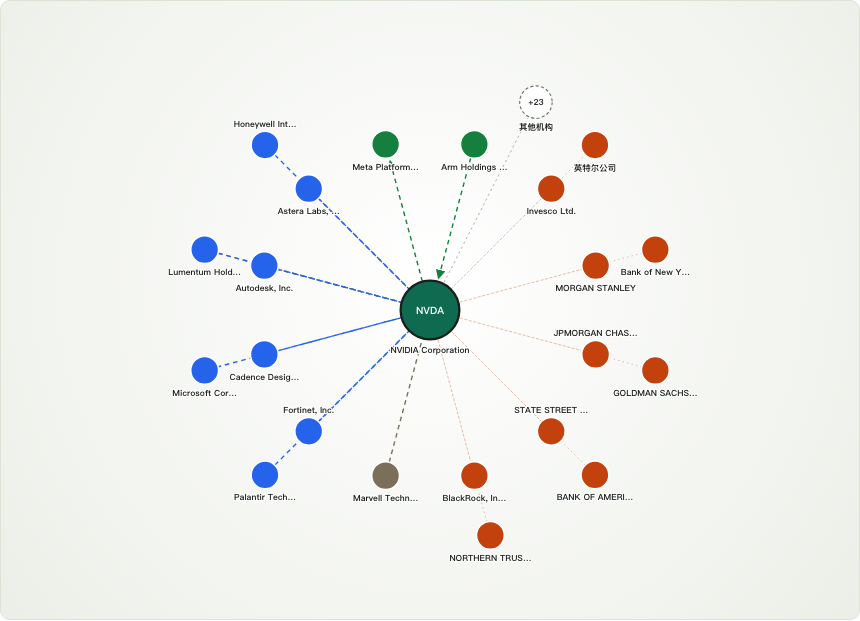
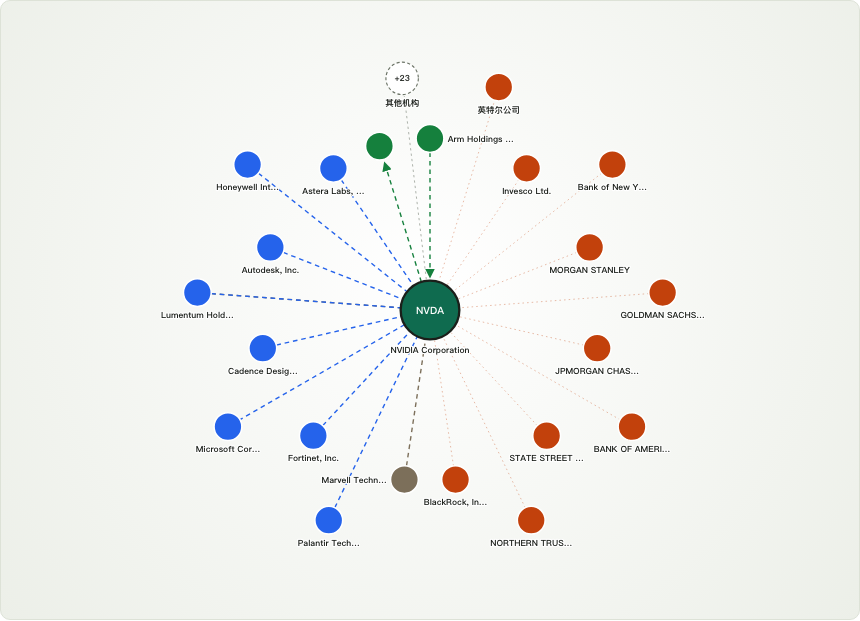
web: stagger inner/outer rings in dense ownership graph
Aligning both rings at the same angles made an outer holder's edge to the
centre run through the inner node on that ray, which read as if the two
companies were connected. Give every node its own angle and interleave the
rings; cluster placement also avoids crossing nodes. Refresh screenshots and
add a no-edge-through-node regression test.

diff --git a/apps/web/src/lib/graph-layout.ts b/apps/web/src/lib/graph-layout.ts
@@ -197,7 +197,6 @@ interface GroupSplit {
   category: RelationCategory;
   inner: DirectCandidate[];
   outer: DirectCandidate[];
-  slots: number;
 }
 
 /**
@@ -223,7 +222,6 @@ function splitGroups(candidates: DirectCandidate[]): GroupSplit[] {
         category,
         inner,
         outer,
-        slots: Math.max(inner.length, outer.length, 1),
       };
     },
   );
@@ -234,18 +232,35 @@ function placeTwoRings(
   positions: Map<string, Position>,
 ): void {
   const groups = splitGroups(candidates);
-  const totalSlots = groups.reduce((sum, group) => sum + group.slots, 0);
+  const totalSlots = groups.reduce(
+    (sum, group) => sum + group.inner.length + group.outer.length,
+    0,
+  );
   let cursor = START_ANGLE;
   for (const group of groups) {
-    const arc = (360 * group.slots) / Math.max(totalSlots, 1);
-    group.inner.forEach((candidate, index) => {
-      const angle = cursor + (arc * (index + 0.5)) / group.inner.length;
-      setPolarPosition(positions, candidate.id, INNER_RADIUS, angle);
-    });
-    group.outer.forEach((candidate, index) => {
-      const angle = cursor + (arc * (index + 0.5)) / group.outer.length;
-      setPolarPosition(positions, candidate.id, OUTER_RADIUS, angle);
-    });
+    const slots = group.inner.length + group.outer.length;
+    const arc = (360 * slots) / Math.max(totalSlots, 1);
+    const step = arc / Math.max(slots, 1);
+    /**
+     * Interleave inner and outer nodes instead of giving both rings the same
+     * angles. Otherwise an outer holder's edge to the centre runs straight
+     * through the inner node at the same angle, which reads as if the two
+     * companies were connected. Each node now gets its own angle; edges to the
+     * outer ring pass between the inner nodes.
+     */
+    let slot = 0;
+    for (let index = 0; index < Math.max(group.inner.length, group.outer.length); index += 1) {
+      const inner = group.inner[index];
+      if (inner) {
+        setPolarPosition(positions, inner.id, INNER_RADIUS, cursor + step * (slot + 0.5));
+        slot += 1;
+      }
+      const outer = group.outer[index];
+      if (outer) {
+        setPolarPosition(positions, outer.id, OUTER_RADIUS, cursor + step * (slot + 0.5));
+        slot += 1;
+      }
+    }
     cursor += arc;
   }
 }
@@ -268,8 +283,8 @@ function placeSingleRing(
 
 /**
  * Place the collapsed cluster near the last named holder without stacking it
- * on top of another node. Falls back to the preferred angle if the ring is
- * unusually crowded.
+ * on top of a node or running its edge through another node. Falls back to the
+ * preferred angle if the ring is unusually crowded.
  */
 function findClusterAngle(
   positions: Map<string, Position>,
@@ -277,19 +292,59 @@ function findClusterAngle(
   radius: number,
 ): number {
   const minDistance = NODE_RADIUS * 2 + CLUSTER_RADIUS + 8;
-  for (const offset of [
-    0, 18, -18, 28, -28, 38, -38, 48, -48, 60, -60, 90, -90, 120, -120, 180,
-  ]) {
+  const offsets = [0];
+  for (let offset = 6; offset <= 180; offset += 6) {
+    offsets.push(offset, -offset);
+  }
+  for (const offset of offsets) {
     const angle = preferredAngle + offset;
     const radians = (angle * Math.PI) / 180;
     const x = CENTER_X + radius * Math.cos(radians);
     const y = CENTER_Y - radius * Math.sin(radians);
-    const clear = [...positions.values()].every(
-      (position) => Math.hypot(position.x - x, position.y - y) >= minDistance,
-    );
+    const clear = [...positions.values()].every((position) => {
+      // Ignore the centre itself: every candidate edge starts there.
+      if (
+        Math.abs(position.x - CENTER_X) < 0.5 &&
+        Math.abs(position.y - CENTER_Y) < 0.5
+      ) {
+        return true;
+      }
+      const endpointGap = Math.hypot(position.x - x, position.y - y);
+      if (endpointGap < minDistance) return false;
+      // Edges to the outer ring must pass between nodes, not through them.
+      return (
+        distanceToSegment(
+          position,
+          { x: CENTER_X, y: CENTER_Y },
+          { x, y },
+        ) >=
+        NODE_RADIUS + 6
+      );
+    });
     if (clear) return angle;
   }
   return preferredAngle;
+}
+
+function distanceToSegment(
+  point: { x: number; y: number },
+  start: { x: number; y: number },
+  end: { x: number; y: number },
+): number {
+  const dx = end.x - start.x;
+  const dy = end.y - start.y;
+  const lengthSquared = dx * dx + dy * dy || 1;
+  const t = Math.max(
+    0,
+    Math.min(
+      1,
+      ((point.x - start.x) * dx + (point.y - start.y) * dy) / lengthSquared,
+    ),
+  );
+  return Math.hypot(
+    point.x - (start.x + t * dx),
+    point.y - (start.y + t * dy),
+  );
 }
 
 export function defaultView(nodeCount: number): ViewBox {
@@ -355,9 +410,9 @@ function labelCandidates(
     anchor: "middle" as const,
     box: {
       x: position.x - width / 2,
-      y: position.y + radius + 5,
+      y: position.y + radius + 3,
       w: width,
-      h: 14,
+      h: 20,
     },
   };
   const above = {
@@ -367,9 +422,9 @@ function labelCandidates(
     anchor: "middle" as const,
     box: {
       x: position.x - width / 2,
-      y: position.y - radius - 16,
+      y: position.y - radius - 19,
       w: width,
-      h: 14,
+      h: 20,
     },
   };
   const right = {
@@ -379,9 +434,9 @@ function labelCandidates(
     anchor: "start" as const,
     box: {
       x: position.x + radius + 5,
-      y: position.y - 10,
+      y: position.y - 12,
       w: width,
-      h: 14,
+      h: 20,
     },
   };
   const left = {
@@ -391,9 +446,9 @@ function labelCandidates(
     anchor: "end" as const,
     box: {
       x: position.x - radius - 5 - width,
-      y: position.y - 10,
+      y: position.y - 12,
       w: width,
-      h: 14,
+      h: 20,
     },
   };
   return [below, above, right, left];

diff --git a/apps/web/src/lib/graph-layout.test.ts b/apps/web/src/lib/graph-layout.test.ts
@@ -132,6 +132,65 @@ describe("dense ownership layout", () => {
     expect(radii.has(302)).toBe(true);
   });
 
+  it("staggers the two rings so centre edges never pass through nodes", () => {
+    const center = company("alphabet", "Alphabet Inc.");
+    const { edges } = thirteenFilers(center, 20);
+    const collapsed = buildGraphLayout(graph(center, edges), edges, {
+      expanded: false,
+      clusterLabel: "其他机构",
+    });
+    const expanded = buildGraphLayout(graph(center, edges), edges, {
+      expanded: true,
+      clusterLabel: "其他机构",
+    });
+
+    const distanceToSegment = (
+      point: { x: number; y: number },
+      start: { x: number; y: number },
+      end: { x: number; y: number },
+    ): number => {
+      const dx = end.x - start.x;
+      const dy = end.y - start.y;
+      const lengthSquared = dx * dx + dy * dy || 1;
+      const t = Math.max(
+        0,
+        Math.min(
+          1,
+          ((point.x - start.x) * dx + (point.y - start.y) * dy) /
+            lengthSquared,
+        ),
+      );
+      return Math.hypot(
+        point.x - (start.x + t * dx),
+        point.y - (start.y + t * dy),
+      );
+    };
+
+    for (const layout of [collapsed, expanded]) {
+      const centerPoint = layout.positions.get(center.id);
+      if (!centerPoint) throw new Error("missing centre");
+      const entries = [...layout.positions.entries()].filter(
+        ([id]) => id !== center.id,
+      );
+      // No two nodes share the same angle on different rings.
+      for (let i = 0; i < entries.length; i += 1) {
+        for (let j = i + 1; j < entries.length; j += 1) {
+          const delta = Math.abs(entries[i][1].angle - entries[j][1].angle);
+          expect(Math.min(delta, 360 - delta)).toBeGreaterThan(0.5);
+        }
+      }
+      // A centre edge must pass between nodes, not through another node.
+      for (const [id, end] of entries) {
+        for (const [otherId, point] of entries) {
+          if (id === otherId) continue;
+          expect(
+            distanceToSegment(point, centerPoint, end),
+          ).toBeGreaterThanOrEqual(NODE_RADIUS - 1);
+        }
+      }
+    }
+  });
+
   it("expands to every holder and keeps the amount order", () => {
     const center = company("blackrock", "BlackRock, Inc.");
     const { edges } = thirteenFilers(center, 26);

diff --git a/CONTEXT_TRANSFER.md b/CONTEXT_TRANSFER.md
@@ -1394,7 +1394,10 @@ change relation status/types, or alter the API.
     top 10 plus a synthetic「其他机构 +N」node. F10/GLEIF and non-investment
     edges stay visible.
   - >8 visible direct nodes use two rings (top holders inner, rest outer) with
-    relation-family arcs; ≤8 keeps the previous single ring/radii.
+    relation-family arcs; inner/outer angles are interleaved so an outer
+    holder's edge to the centre passes between inner nodes instead of through
+    one (which would look like the two companies are connected). ≤8 keeps the
+    previous single ring/radii.
   - Labels are single-line, placed in priority order, and hidden when they
     would cover the centre, another node, or another label. Hover shows the full
     name via `<title>`; the inspector shows it on selection.
@@ -1408,7 +1411,7 @@ change relation status/types, or alter the API.
   `overlap-report.json` (0 node collisions, 0 label collisions at the default
   view for every company, including GOOGL's 39-node expanded state). BLK is an
   S&P 500 stub and is verified through `/graph?company=blackrock`.
-- Web tests/typecheck/build green (42 web tests).
+- Web tests/typecheck/build green (43 web tests).
 
 ### P1.4 — Official filing adapters (NEXT)
 
@@ -1591,7 +1594,7 @@ P1 (active; see §10):
   duplicates skipped); reruns insert 0; migration
   `0010_relation_metadata.sql`; per-source labels shipped.
 - [x] **P1.3 follow-up: dense ownership graph readability (web-only).**
-  `apps/web/src/lib/graph-layout.ts` + `CompanyGraph.tsx`; 42 web tests;
+  `apps/web/src/lib/graph-layout.ts` + `CompanyGraph.tsx`; 43 web tests;
   screenshots/overlap report in `docs/screenshots/p1.3/`.
 - [ ] **NEXT — P1.4 CNINFO/SSE/SZSE/HKEXnews/IR RSS/GDELT adapters + PDF.**
 - [ ] P1.5 daily company-data/financial-report refresh (`data.sweep`,

diff --git a/docs/UI.md b/docs/UI.md
@@ -345,8 +345,9 @@ OCC 公司百科     [搜索公司名、代码、中文名…]          首页  
   「显示全部」可展开，右侧详情面板也会提示折叠数量；下方关系列表始终保留
   全部关系，点击「其他机构」会展开并滚动到完整列表。
 - **8 个以上直接节点使用双环布局**：同一关系族内持仓最大的节点在内环，其余
-  在外环；关系族仍按投资 / 供应链 / 竞争 / 合作 / 其他分组。≤8 个节点保持原来
-  的单环布局。
+  在外环；关系族仍按投资 / 供应链 / 竞争 / 合作 / 其他分组。内环与外环的角度
+  **交错排列**，外环到中心的连线从内环节点之间穿过，避免看起来像同一径向线上
+  的公司彼此也有关系。≤8 个节点保持原来的单环布局。
 - **13F / DION 连线低强调**：更细、更低透明度、不画箭头；选中或悬停时高亮，
   选中其他节点时无关连线淡出。来源 pill（如「13F 持仓」「HKEX 权益披露」）和
   「来源」按钮不变。
